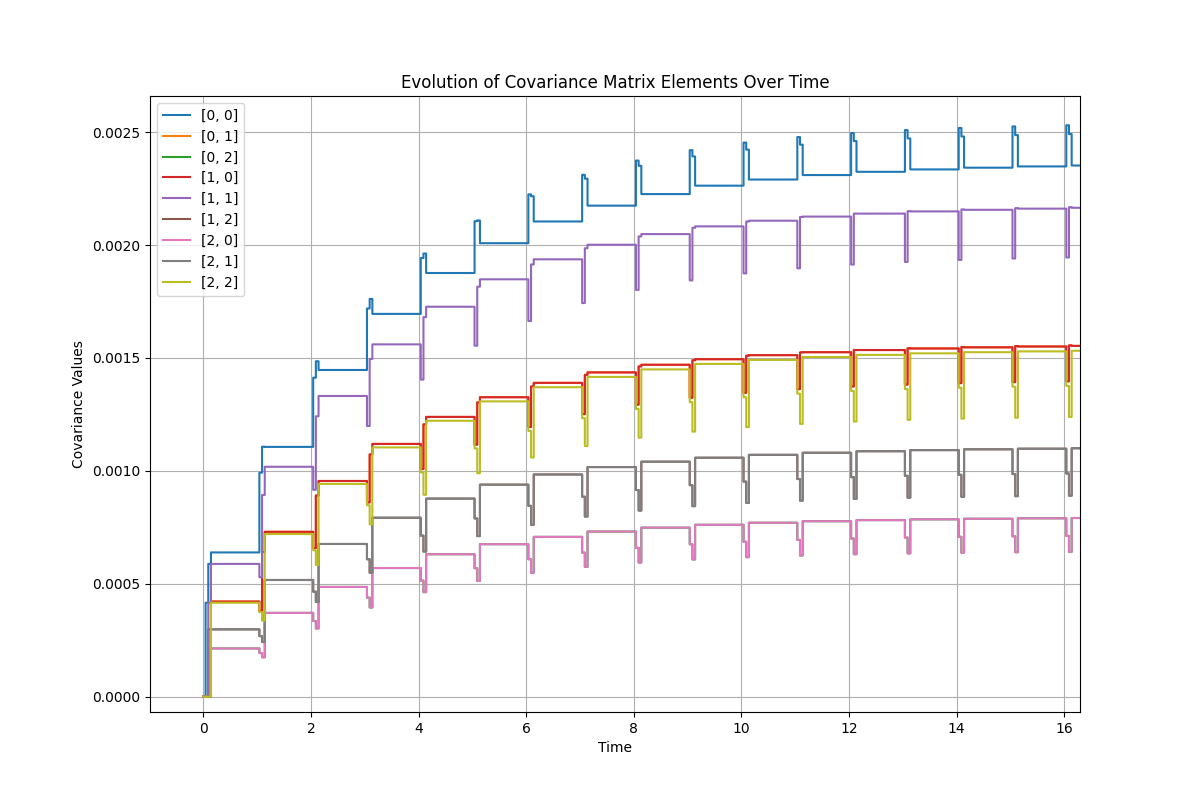
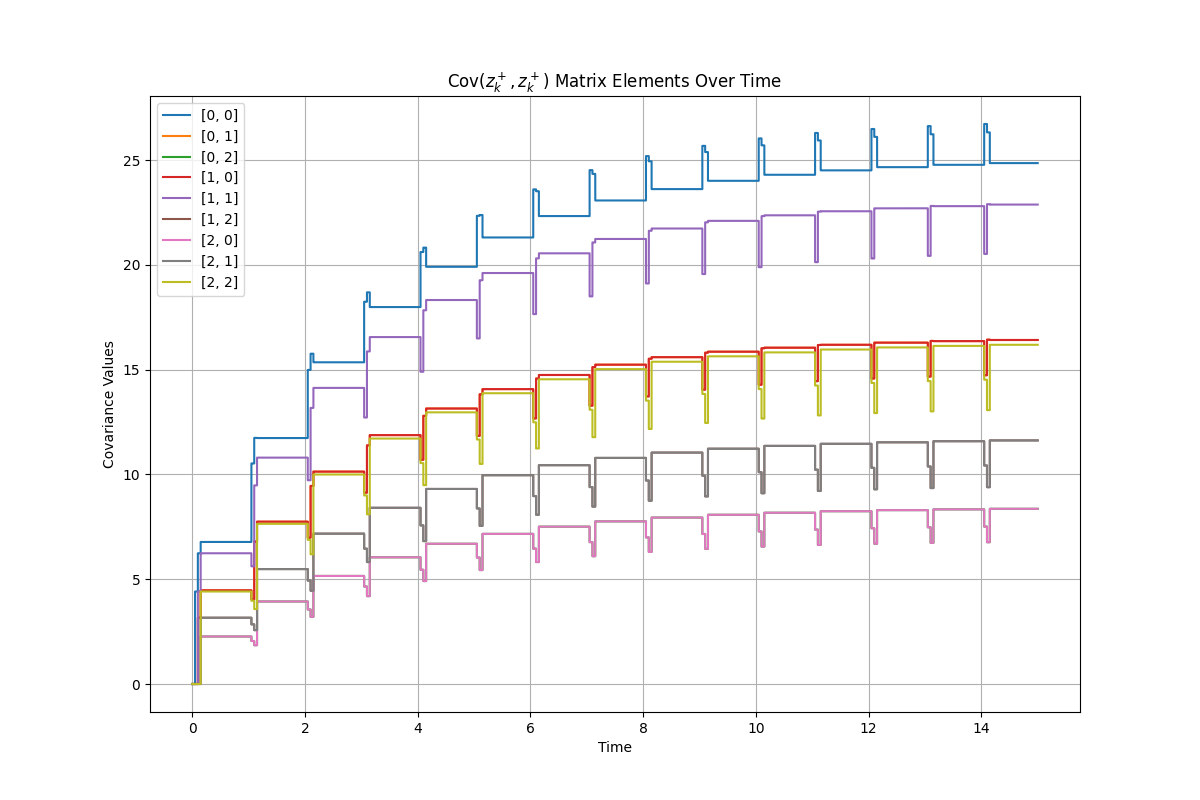
Update README

diff --git a/README.md b/README.md
@@ -5,11 +5,11 @@ The motivation for event-based modelling of causal relationships between spike t
 
 Continuing in this direction towards spiking neural networks it becomes clear that the framework of continuous trajectories of LTI systems and operating on discrete time-steps is poorly suited. In a neural network, each neuron interacts mainly with other neurons. Hence the *external system*, as seen by an individual neuron, must be identified by its *trajectory* consisting of a sequence of spikes, discrete events, rather than a continous trajectory. And instead of operating on time-steps, it is tempting to exploit the sparse nature of spikes and operate directly on events.    
 
-This repository represents preliminary investigation towards extending the data-driven framework to an event-based methodology. Adopting an event-based kernel for spike-trains (akin to in [Reproducing kernel Hilbert spaces for spike train analysis](https://www.researchgate.net/publication/220735994_Reproducing_kernel_Hilbert_spaces_for_spike_train_analysis)) covariance estimates updated only at spikes times can be used to predict causal relationships between spike-trains. The kernel is based on the usage of *exponential traces* to encode a fading memory of incoming spikes, representing post-synaptic potentials. This is implemented by filtering spikes with the first order low-pass filter with impulse response:
+This repository represents preliminary investigation towards extending the data-driven framework to an event-based methodology. Adopting an event-based kernel for spike-trains (akin to in [Reproducing kernel Hilbert spaces for spike train analysis](https://www.researchgate.net/publication/220735994_Reproducing_kernel_Hilbert_spaces_for_spike_train_analysis)) covariance estimates updated only at spikes times can be used to predict causal relationships between spike-trains. The kernel is based on *exponential traces* to encode a fading memory of incoming spikes, representing post-synaptic potentials. This is implemented by filtering spikes with the first order low-pass filter with impulse response:
 
 $h(t) = \frac{1}{\tau} e^{-t/\tau} u(t)$,
 
-where $\tau$ is the time-constant of the filter and $u(t)$ is the unit step function. Considering $n$ spike trains we denote the spike times as $t_k, k=1,2,...$ and define $x_k := x(t_k) \in \{0, 1\}^n$ as the binary vector signifying which neuron spiked at time $t_k$. Correspondingly we define $z_k := (h*x)(t_k)$ as the vector of exponential traces at time $t_k$, with $z_k^-$ and $z_k^+$ denoting the traces immediately before and after the spike event at time $t_k$. 
+where $\tau$ is the time-constant of the filter and $u(t)$ is the unit step function. Considering $n$ spike trains we denote the spike times as $t_k, k=1,2,...$ and define $x_k := x(t_k) \in \left\{0, 1\right\}^n$ as the binary vector signifying which neuron spiked at time $t_k$. Correspondingly we define $z_k := (h*x)(t_k)$ as the vector of exponential traces at time $t_k$, with $z_k^-$ and $z_k^+$ denoting the traces immediately before and after the spike event at time $t_k$. 
 
 The predictor implemented here is expressed as:
 
@@ -36,15 +36,15 @@ $y(t_k) \approx Cov(\alpha_k x_{k+1}, z_k^+) Cov(z_k^+, z_k^+)^{-1} z_k^+$ = $E[
 I.e. based on entirely local-in-time samples and event-based running covariance estimates, the model learns to predict over an entire time-horizon until the next event given a fading-memory internal state encoding past events.
 
 ## Experimental results
-A simple example is used to demonstrate the capability of the event-based predictor to learn causal relationships between spike-trains. In this example, three input spike-trains are generated with a deterministic periodic pattern, with spikes occurring every second but with phases offset 50ms from each other. The kernel employs a time-constant of 150ms, giving an overlap between the exponential traces within a burst of spikes but a decay to near-zero between bursts. The forgetting factor is set to $\gamma = 0.9$ and ridge-regularization to $\lambda = 10^{-4}$. The time-step for updating the exponential traces is set to 1ms for plotting purposes, and a prediction is made at every time-step. It is, however, possible to jump directly between event times by decaying the traces according to the time-difference between events.
+A simple example is used to demonstrate the capability of the event-based predictor to learn causal relationships between spike-trains. In this example, three input spike-trains are generated with a deterministic periodic pattern, with spikes occurring every second but with phases offset 50ms from each other. The kernel employs a time-constant of 150ms, giving an overlap between the exponential traces within a burst of spikes but a decay to near-zero between bursts. The forgetting factor is set to $\gamma = 0.9$ and ridge-regularization to $\lambda = 10^{-4}$. The time-step for updating the exponential traces is set to 1ms for plotting purposes, and a prediction is made at every time-step. It is, however, possible to jump directly between event times by decaying the exponential traces appropriately according to the time-difference between events.
 
 The figure below shows the predictor learning to predict the next spike over a roughly 10 second simulation, with an adequate prediction after only seing the pattern once. The left plot shows the full prediction over time, with a raster of the input spikes below. The right plot gives a zoomed-in view. We see that the predictions for the second spike peaks after seeing the first spike, and similarly for the third spike after seeing the second spike. The first spike is not predicted due to the fading-memory traces decaying to near-zero before the first spike in the pattern occurs.
 
 | ![Response](./Figures/Predictions_uncentered.png) | ![Response_zoom](./Figures/Predictions_uncentered_zoom.png) |
 |:---:|:---:|
 
-The temporal evolution of the elements in the cross-covariance matrix $Cov(x_k, z_k^-)$ and the covariance matrix $Cov(z_k^+, z_k^+)$ 
+The temporal evolution of the elements in the cross-covariance matrix $Cov(x_k, z_k^-)$ and the covariance matrix $Cov(z_k^+, z_k^+)$ are shown below. The statistics are characterised by large updates at spike times and no change in inter-spike intervals. The values converge to a stationary value due to the forgetting factor $\gamma$, giving a weighted average dominated by recent events.
 
-| ![Response](./Figures/Predictions_uncentered.png) | ![Response_zoom](./Figures/Predictions_uncentered_zoom.png) |
+| ![Response](./Figures/CovarianceMatrixEvolution.png) | ![Response_zoom](./Figures/CrossCovarianceMatrixEvolution.png) |
 |:---:|:---:|
 
